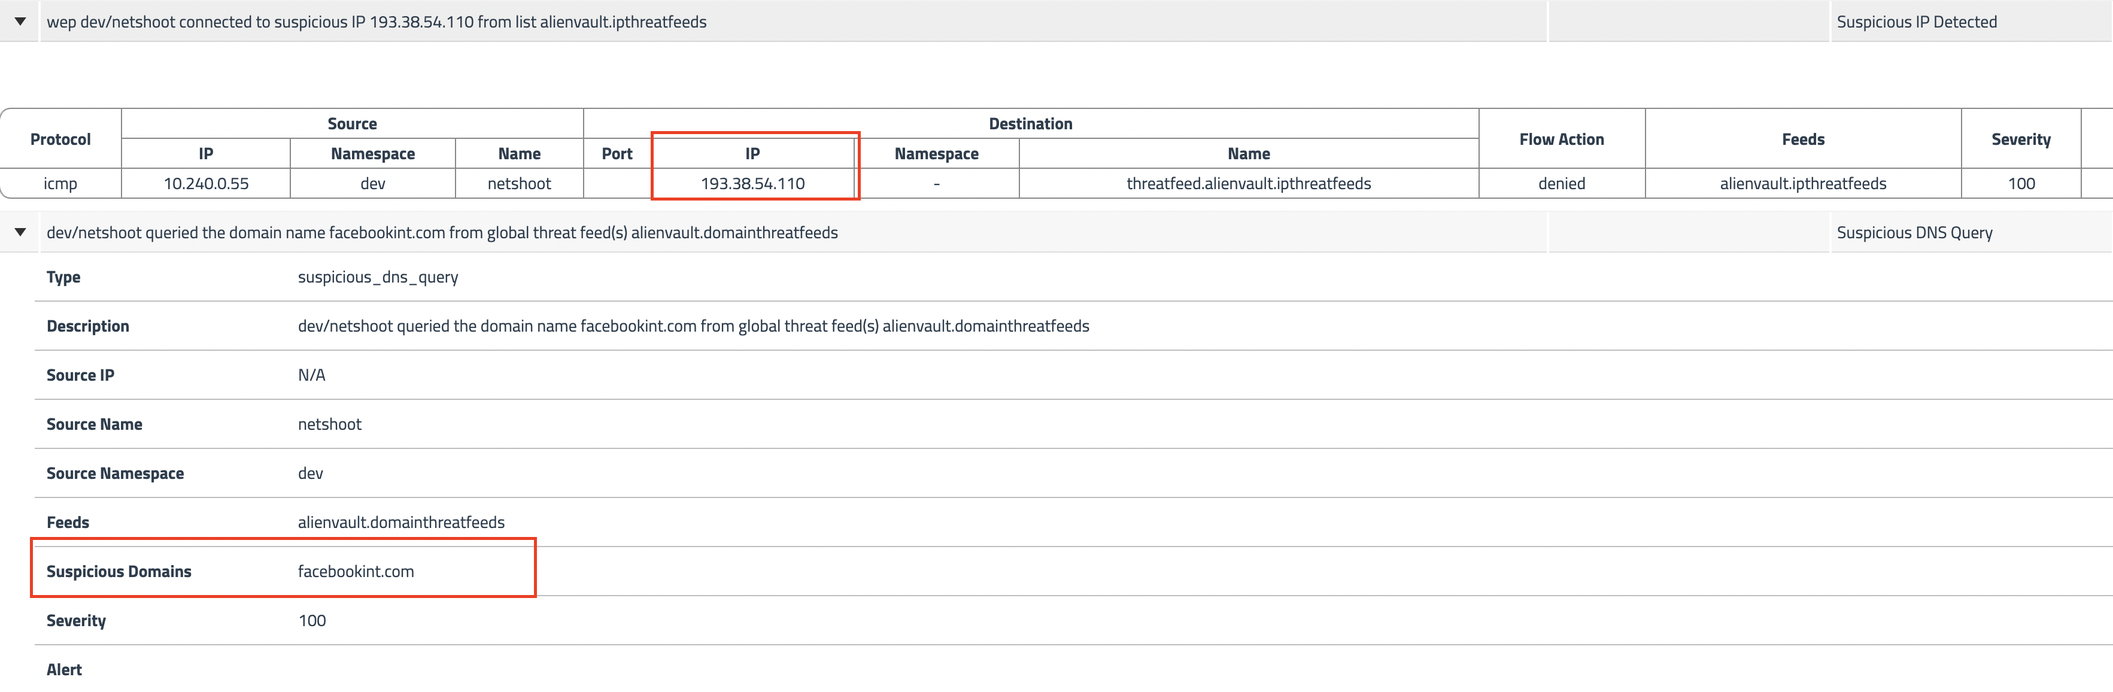
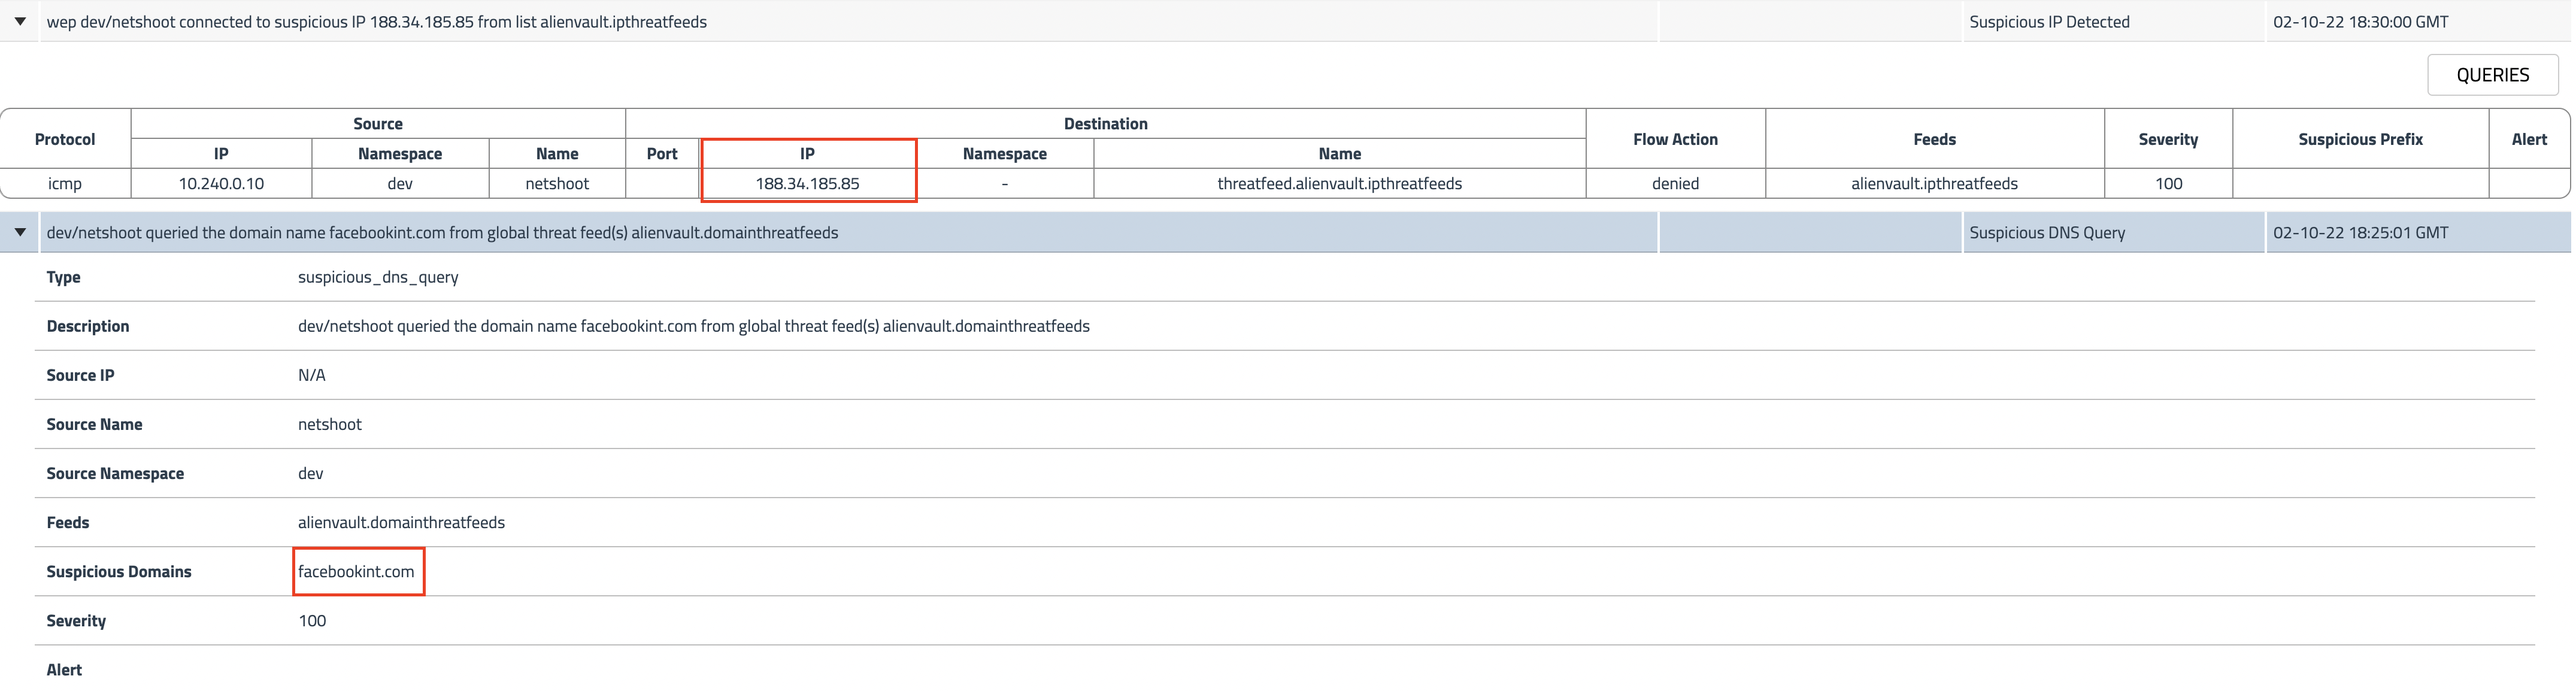
update ip

diff --git a/modules/using-alerts.md b/modules/using-alerts.md
@@ -72,14 +72,14 @@
 
 
 
- - Generate `Suspicious IPs/Domains` alerts by curl those list above. Use `facebookint.com` and `193.38.54.110` as example:
+ - Generate `Suspicious IPs/Domains` alerts by curl those list above. Use `facebookint.com` and `188.34.185.85` as example:
    
     ```bash
     # generate suspicious DNS alerts
     kubectl -n dev exec -t netshoot -- sh -c "ping -c1 facebookint.com"
 
     # generate suspicious IP alerts
-    kubectl -n dev exec -t netshoot -- sh -c "ping -c3 193.38.54.110"
+    kubectl -n dev exec -t netshoot -- sh -c "ping -c3 188.34.185.85"
     ```
 
 
